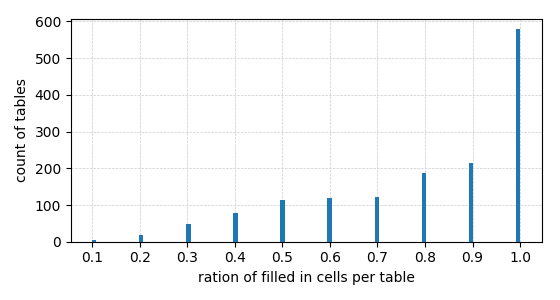
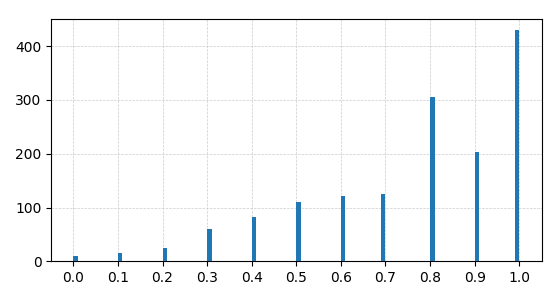
adding density and coverage graph

diff --git a/src/db_refining/ViewBuilder.py b/src/db_refining/ViewBuilder.py
@@ -10,12 +10,18 @@ class ViewBuilder:
 
     def _buildTablesVisibleHiddenInfo(self):
         sql = '''create view tables_visible_hidden_info as
-                with filled_in_cells as (
-                select count(*) as filled_cell_count, table_name, file_name, sheet_name
+                with filled_visible_cells as (
+                select count(*) as count_filled_visible_cells, table_name, file_name, sheet_name
                 from cell_annotations 
                 where table_name is not null and is_hidden = 0
                 group by table_name, file_name, sheet_name
             ),
+			filled_hidden_cells as(
+				select count(*) as count_filled_hidden_cells, table_name, file_name, sheet_name
+					from cell_annotations 
+					where table_name is not null and is_hidden = 1
+					group by table_name, file_name, sheet_name
+			),
             count_total_table_cells as (
                 select (last_row-first_row+1) * (last_column-first_column +1) as total_count_cells , 
                     table_name,
@@ -46,14 +52,19 @@ class ViewBuilder:
                 on cw.file_name = t.file_name and cw.sheet_name = t.sheet_name
                 where cw.is_hidden = 1 and cw.column_index >= t.first_column and cw.column_index <= t.last_column
                 group by t.table_name, t.sheet_name, t.file_name, cw.sheet_name, cw.file_name
-            )
+            ),
+			joined_table as (
         
-            select total_count_cells, filled_cell_count, hidden_row_count, hidden_row_cells, hidden_column_count, hidden_column_cells, total.table_name, total.file_name, total.sheet_name
+            select total_count_cells, count_filled_visible_cells, count_filled_hidden_cells, hidden_row_count, hidden_row_cells, hidden_column_count, hidden_column_cells, total.table_name, total.file_name, total.sheet_name
             from count_total_table_cells as total
-            left join filled_in_cells as filled 
-            on total.table_name = filled.table_name
-            and total.file_name = filled.file_name
-            and total.sheet_name = filled.sheet_name
+            left join filled_visible_cells as filled_visible
+            on total.table_name = filled_visible.table_name
+            and total.file_name = filled_visible.file_name
+            and total.sheet_name = filled_visible.sheet_name
+			left join filled_hidden_cells as filled_hidden
+            on total.table_name = filled_hidden.table_name
+            and total.file_name = filled_hidden.file_name
+            and total.sheet_name = filled_hidden.sheet_name
             left join count_hidden_rows as hidden_rows 
             on total.table_name = hidden_rows.table_name
             and total.file_name = hidden_rows.file_name
@@ -61,6 +72,23 @@ class ViewBuilder:
             left join count_hidden_columns as hidden_columns 
             on total.table_name = hidden_columns.table_name
             and total.file_name = hidden_columns.file_name
-            and total.sheet_name = hidden_columns.sheet_name
+            and total.sheet_name = hidden_columns.sheet_name)
+			
+			select 
+                count_filled_visible_cells,
+                count_filled_hidden_cells,
+                total_count_cells,
+                coalesce(hidden_row_cells,0) 
+                + coalesce(hidden_column_cells,0) 
+                - (coalesce(hidden_row_count,0) 
+                * coalesce(hidden_column_count,0))
+                as count_hidden_cells,
+                coalesce(count_filled_visible_cells,0) 
+                + coalesce(count_filled_hidden_cells,0) 
+                as count_filled_cells,
+                sheet_name,
+                file_name,
+                table_name
+            from joined_table
         '''
         self.dbconnector.execute(sql)

diff --git a/src/graph/Visible_Cells_per_Table_Graph.py b/src/graph/Visible_Cells_per_Table_Graph.py
@@ -4,12 +4,10 @@ import matplotlib.pyplot as plt
 import numpy as np
 import seaborn as sns
 
-class HiddenCellsGraph:
+class Visible_Cells_per_Table_Graph:
     count_tables = []
 
     def __init__(self, dbconnector):
-        self.xlabel = 'ration of filled in cells per table'
-        self.ylabel = 'count of tables'
         self.dbconnector = dbconnector
         self.ratio_filled_cells_per_table = self._getVisibleCellsRatio()
 
@@ -18,12 +16,10 @@ class HiddenCellsGraph:
         plt.cla()
         plt.figure(figsize= [5.6, 3])
 
-        plt.xlabel(self.xlabel)
-        plt.ylabel(self.ylabel)
         #plt.xlim([0,1])
         plt.xticks([0, .1, .2, .3, .4, .5, .6, .7, .8, .9, 1])
 
-        plt.grid(color='#cccccc', linestyle='--', linewidth=0.01, zorder=0)
+        plt.grid(color='#cccccc', linestyle='--', linewidth=0.5, zorder=0)
         sns.distplot(self.ratio_filled_cells_per_table, bins=100, hist=True, kde=False, hist_kws={'zorder': 3, 'rwidth': 2, 'alpha':1.0})
         plt.tight_layout()
 
@@ -32,15 +28,13 @@ class HiddenCellsGraph:
 
 
     def _getVisibleCellsRatio(self):
-        sql = '''select 
-            ROUND(CAST (coalesce(filled_cell_count, 0) AS float) / CAST (
-            total_count_cells
-            - coalesce(hidden_row_cells,0) 
-            - coalesce(hidden_column_cells,0) 
-            + (coalesce(hidden_row_count,0) 
-            * coalesce(hidden_column_count,0))
-            as float), 1) as ratio_filled_cells
-            from tables_visible_hidden_info'''
+        sql = '''		select 
+            ROUND(
+				CAST (coalesce(count_filled_visible_cells, 0) AS float) 
+				/ 
+				CAST (total_count_cells as float)
+			, 1) as ratio_filled_cells
+        from tables_visible_hidden_info'''
         result = self.dbconnector.execute(sql)
         print(pd.DataFrame(result))
         return pd.DataFrame(result)

diff --git a/src/graph/Sheets_With_Label_Graph.py b/src/graph/Sheets_With_Label_Graph.py
@@ -4,13 +4,11 @@ import matplotlib.pyplot as plt
 import numpy as np
 import seaborn as sns
 
-class LabelCountGraph:
+class Sheets_With_Label_Graph:
     count_tables = []
 
     def __init__(self, dbconnector):
         self.title = 'number of tables per sheet'
-        self.xlabel = 'annotated cell labels'
-        self.ylabel = 'count of cells'
         self.dbconnector = dbconnector
         self.labelCount = self._getLabelCount()
 
@@ -25,19 +23,15 @@ class LabelCountGraph:
         bars = [x[1] for x in self.labelCount]
         y_pos = np.arange(len(bars))
 
-        # Create bars
 
-        # Create names on the x-axis
-        plt.xticks(y_pos, bars, color='orange', rotation=40, horizontalalignment='right')
-        plt.yticks(color='orange')
+        plt.xticks(y_pos, bars, rotation=40, horizontalalignment='right')
         plt.grid(color='#cccccc', linestyle='--', linewidth=0.5, zorder=0)
-        plt.xlabel(self.xlabel)
-        plt.ylabel(self.ylabel)
         ax = plt.bar(y_pos, height, zorder=3)
 
         rects = ax.patches
         labels = [x[0] for x in self.labelCount]
 
+        # numbers on bars
         for rect, label in zip(rects, labels):
             height = rect.get_height()
             plt.text(rect.get_x() + rect.get_width() / 2, height + 5, label,
@@ -47,7 +41,7 @@ class LabelCountGraph:
         plt.tight_layout()
 
         # Show graphic
-        plt.savefig('images/total_label_count.png')
+        plt.savefig('images/labels_per_spreadsheet.png')
 
 
     def _getLabelCount(self):

diff --git a/src/graph/GraphManager.py b/src/graph/GraphManager.py
@@ -1,7 +1,8 @@
-from src.graph.TableCountGraph import TableCountGraph
+from src.graph.Table_per_Sheet_Graph import Table_per_Sheet_Graph
 from src.graph.TableStats import TableStats
-from src.graph.LabelCountGraph import LabelCountGraph
-from src.graph.HiddenCellsGraph import HiddenCellsGraph
+from src.graph.Sheets_With_Label_Graph import Sheets_With_Label_Graph
+from src.graph.Visible_Cells_per_Table_Graph import Visible_Cells_per_Table_Graph
+from src.graph.Density_Graph import Density_Graph
 
 class GraphManager:
     graphsForDrawing = []
@@ -10,13 +11,14 @@ class GraphManager:
     def __init__(self, dbconnector):
         self.dbconnector = dbconnector
 
-        tableCountGraph = TableCountGraph(dbconnector)
+        tableCountGraph = Table_per_Sheet_Graph(dbconnector)
         #tableStats = TableStats(dbconnector)
-        labelCountGraph = LabelCountGraph(dbconnector)
-        hiddenCellsGraph = HiddenCellsGraph(dbconnector)
+        labelCountGraph = Sheets_With_Label_Graph(dbconnector)
+        hiddenCellsGraph = Visible_Cells_per_Table_Graph(dbconnector)
+        densityGraph = Density_Graph(dbconnector)
 
 
-        self.graphsForDrawing = [ hiddenCellsGraph ]
+        self.graphsForDrawing = [ tableCountGraph, labelCountGraph, hiddenCellsGraph, densityGraph ]
 
     def draw(self):
         for graph in self.graphsForDrawing:

diff --git a/src/graph/Coverage_Graph.py b/src/graph/Coverage_Graph.py
@@ -1,0 +1,40 @@
+import plotly.tools as tls
+import pandas as pd
+import matplotlib.pyplot as plt
+import numpy as np
+import seaborn as sns
+
+class Density_Graph:
+    count_tables = []
+
+    def __init__(self, dbconnector):
+        self.dbconnector = dbconnector
+        self.density_per_table = self._getDensityValues()
+
+    def draw(self):
+        plt.clf()
+        plt.cla()
+        plt.figure(figsize= [5.6, 3])
+
+        plt.xticks([max(self.density_per_table)-1])
+        #plt.xlim(1000000000)
+
+        plt.grid(color='#cccccc', linestyle='--', linewidth=0.5, zorder=0)
+        sns.distplot(self.density_per_table, bins=1000, hist=True, kde=False, hist_kws={'zorder': 3, 'rwidth': 2, 'alpha':1.0})
+        plt.tight_layout()
+
+        #plt.show()
+        plt.savefig('images/density_over_tables.png')
+
+
+    def _getDensityValues(self):
+        sql = '''select 
+            ROUND(
+				CAST (coalesce(count_filled_visible_cells, 0) AS float) 
+				/			
+				CAST ( coalesce(count_filled_hidden_cells,0) as float)
+			, 0) as density
+            from tables_visible_hidden_info'''
+        result = self.dbconnector.execute(sql)
+        print(pd.DataFrame(result))
+        return pd.DataFrame(result)

diff --git a/src/graph/Density_Graph.py b/src/graph/Density_Graph.py
@@ -1,0 +1,40 @@
+import plotly.tools as tls
+import pandas as pd
+import matplotlib.pyplot as plt
+import numpy as np
+import seaborn as sns
+
+class Density_Graph:
+    count_tables = []
+
+    def __init__(self, dbconnector):
+        self.dbconnector = dbconnector
+        self.density_per_table = self._getDensityValues()
+
+    def draw(self):
+        plt.clf()
+        plt.cla()
+        plt.figure(figsize= [5.6, 3])
+
+        plt.xticks([max(self.density_per_table)-1])
+        #plt.xlim(1000000000)
+
+        plt.grid(color='#cccccc', linestyle='--', linewidth=0.5, zorder=0)
+        sns.distplot(self.density_per_table, bins=1000, hist=True, kde=False, hist_kws={'zorder': 3, 'rwidth': 2, 'alpha':1.0})
+        plt.tight_layout()
+
+        #plt.show()
+        plt.savefig('images/density_over_tables.png')
+
+
+    def _getDensityValues(self):
+        sql = '''select 
+            ROUND(
+				CAST (coalesce(count_filled_visible_cells, 0) AS float) 
+				/			
+				CAST ( coalesce(count_filled_hidden_cells,0) as float)
+			, 0) as density
+            from tables_visible_hidden_info'''
+        result = self.dbconnector.execute(sql)
+        print(pd.DataFrame(result))
+        return pd.DataFrame(result)

diff --git a/src/graph/Table_per_Sheet_Graph.py b/src/graph/Table_per_Sheet_Graph.py
@@ -4,13 +4,10 @@ import matplotlib.pyplot as plt
 import numpy as np
 import seaborn as sns
 
-class TableCountGraph:
+class Table_per_Sheet_Graph:
     count_tables = []
 
     def __init__(self, dbconnector):
-        self.title = 'number of tables per sheet'
-        self.xlabel = 'count of tables per sheet'
-        self.ylabel = 'count of appearence in total'
         self.dbconnector = dbconnector
         self.tables_per_sheet = self._getTablesPerSheet()
 
@@ -23,8 +20,6 @@ class TableCountGraph:
 
         plt.grid(color='#cccccc', linestyle='--', linewidth=0.5, zorder=0)
         sns.distplot(self.tables_per_sheet, bins=num_bins, hist=True, kde=False, hist_kws={'align':'left', 'zorder': 3, 'rwidth': 0.8, 'alpha':1.0 })
-        plt.xlabel(self.xlabel)
-        plt.ylabel(self.ylabel)
         plt.tight_layout()
 
         plt.xlim([0,10])
